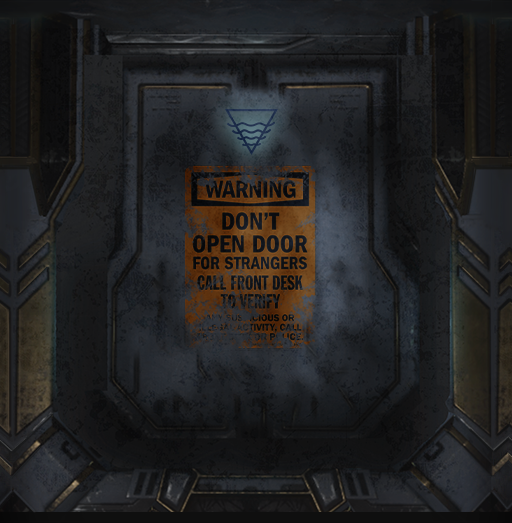
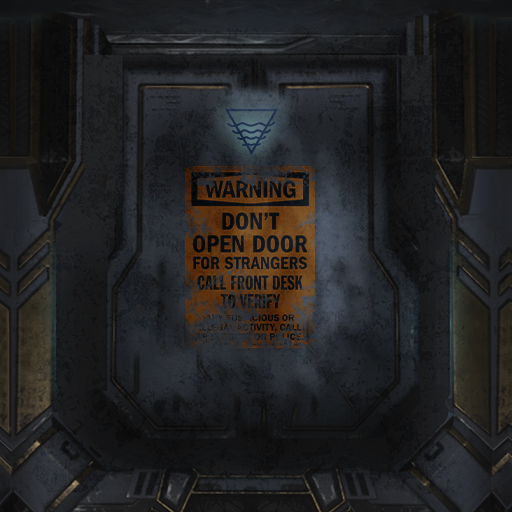
Disabled alpha premultiplication on a bunch of non-transparent textures (-> minor loading time reduction)

diff --git a/Barotrauma/BarotraumaShared/Source/Sprite/Sprite.cs b/Barotrauma/BarotraumaShared/Source/Sprite/Sprite.cs
@@ -99,7 +99,7 @@ namespace Barotrauma
         partial void LoadTexture(ref Vector4 sourceVector, ref bool shouldReturn, bool premultiplyAlpha = true);
         partial void CalculateSourceRect();
 
-        public Sprite(XElement element, string path = "", string file = "")
+        public Sprite(XElement element, string path = "", string file = "", bool? preMultiplyAlpha = null)
         {
             SourceElement = element;
             if (file == "")
@@ -124,7 +124,7 @@ namespace Barotrauma
             Name = SourceElement.GetAttributeString("name", null);
             Vector4 sourceVector = SourceElement.GetAttributeVector4("sourcerect", Vector4.Zero);
             bool shouldReturn = false;
-            LoadTexture(ref sourceVector, ref shouldReturn, SourceElement.GetAttributeBool("premultiplyalpha", true));
+            LoadTexture(ref sourceVector, ref shouldReturn, preMultiplyAlpha ?? SourceElement.GetAttributeBool("premultiplyalpha", true));
             if (shouldReturn) return;
             sourceRect = new Rectangle((int)sourceVector.X, (int)sourceVector.Y, (int)sourceVector.Z, (int)sourceVector.W);
             size = SourceElement.GetAttributeVector2("size", Vector2.One);

diff --git a/Barotrauma/BarotraumaClient/Source/Screens/GameScreen.cs b/Barotrauma/BarotraumaClient/Source/Screens/GameScreen.cs
@@ -47,12 +47,12 @@ namespace Barotrauma
             postProcessEffect = content.Load<Effect>("Effects/postprocess");
 #endif
 
-            damageStencil = TextureLoader.FromFile("Content/Map/walldamage.png");
+            damageStencil = TextureLoader.FromFile("Content/Map/walldamage.png", preMultiplyAlpha: false);
             damageEffect.Parameters["xStencil"].SetValue(damageStencil);
             damageEffect.Parameters["aMultiplier"].SetValue(50.0f);
             damageEffect.Parameters["cMultiplier"].SetValue(200.0f);
 
-            distortTexture = TextureLoader.FromFile("Content/Effects/distortnormals.png");
+            distortTexture = TextureLoader.FromFile("Content/Effects/distortnormals.png", preMultiplyAlpha: false);
             postProcessEffect.Parameters["xDistortTexture"].SetValue(distortTexture);
         }
 

diff --git a/Barotrauma/BarotraumaClient/Source/Map/Lights/LightSource.cs b/Barotrauma/BarotraumaClient/Source/Map/Lights/LightSource.cs
@@ -91,7 +91,7 @@ namespace Barotrauma.Lights
                         }
                         break;
                     case "lighttexture":
-                        OverrideLightTexture = new Sprite(subElement);
+                        OverrideLightTexture = new Sprite(subElement, preMultiplyAlpha: false);
                         break;
                 }
             }
@@ -211,7 +211,7 @@ namespace Barotrauma.Lights
             {
                 if (lightTexture == null)
                 {
-                    lightTexture = TextureLoader.FromFile("Content/Lights/pointlight_bright.png");
+                    lightTexture = TextureLoader.FromFile("Content/Lights/pointlight_bright.png", preMultiplyAlpha: false);
                 }
 
                 return lightTexture;

diff --git a/Barotrauma/BarotraumaClient/Source/Map/Lights/LightManager.cs b/Barotrauma/BarotraumaClient/Source/Map/Lights/LightManager.cs
@@ -78,9 +78,8 @@ namespace Barotrauma.Lights
 
             AmbientLight = new Color(20, 20, 20, 255);
 
-            visionCircle = Sprite.LoadTexture("Content/Lights/visioncircle.png");
-
-            highlightRaster = Sprite.LoadTexture("Content/UI/HighlightRaster.png");
+            visionCircle = Sprite.LoadTexture("Content/Lights/visioncircle.png", preMultiplyAlpha: false);
+            highlightRaster = Sprite.LoadTexture("Content/UI/HighlightRaster.png", preMultiplyAlpha: false);
 
             CreateRenderTargets(graphics);
             GameMain.Instance.OnResolutionChanged += () =>
